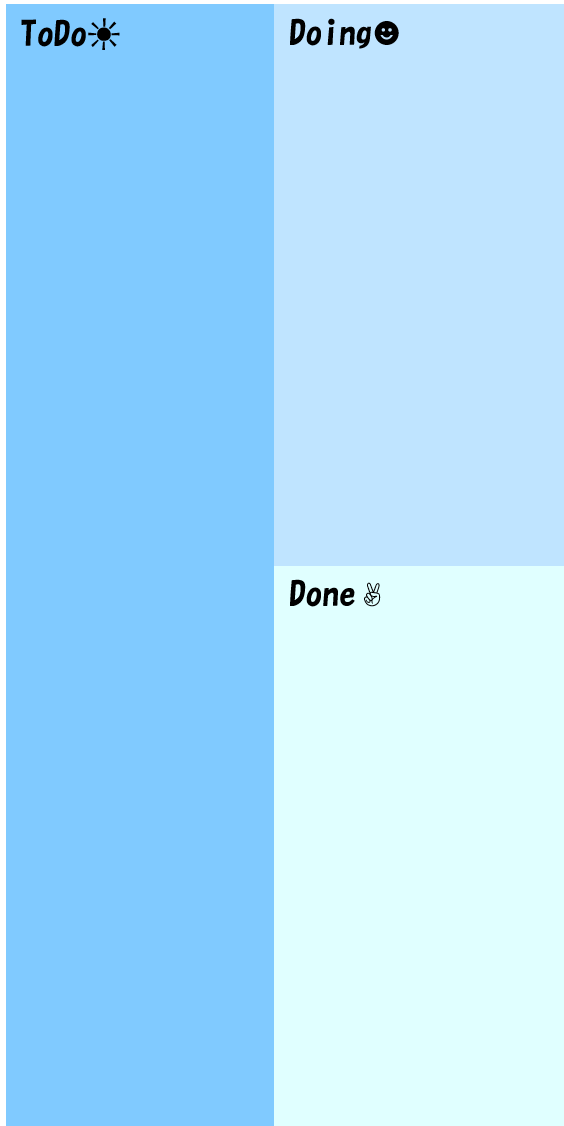
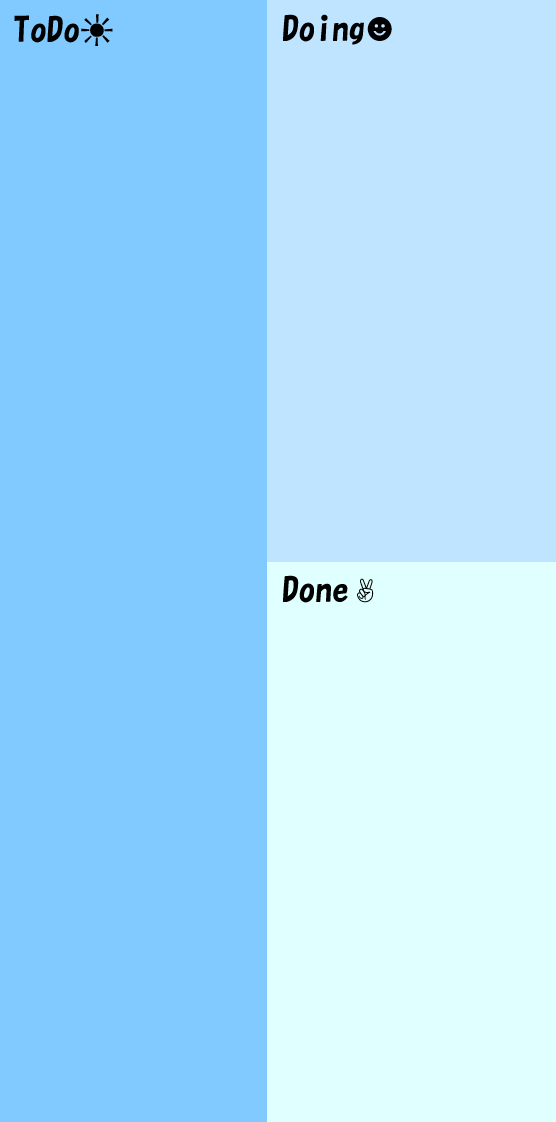
壁紙削除およびアイコン変更 #144

Changed region(s): [[0.0, 0.0, 1.0, 1.0]]

diff --git a/www/js/services.js b/www/js/services.js
@@ -7,24 +7,24 @@ angular.module('mainApp.services', ['mainApp.dbConnector'])
   // TODO:混同しないようにより適切な名前へと要変更
   var templates = [{
     id: 0,
-    name: 'タスクボード1',
-    lastText: '小島ボード1',
+    name: 'Template1',
+    lastText: 'ToDo',
     img: 'img/wallpaper/taskboard_port_blue.png'
   }, {
     id: 1,
-    name: 'タスクボード2',
-    lastText: '小島ボード2',
-    img: 'img/wallpaper/taskboard_port_green.png'
-  }, {
-    id: 2,
-    name: 'タスクボード3',
-    lastText: '小島ボード3',
+    name: 'Template2',
+    lastText: 'ToDo',
     img: 'img/wallpaper/taskboard_virt_blue.png'
   }, {
-    id: 3,
-    name: 'タスクボード4',
-    lastText: '小島ボード4',
+    id: 2,
+    name: 'Template3',
+    lastText: 'ToDo',
     img: 'img/wallpaper/taskboard_virt_orange.png'
+  }, {
+    id: 3,
+    name: 'Template4',
+    lastText: 'Weekly Calender',
+    img: 'img/wallpaper/template_calender_weekly.png'
   }];
 
   // 非同期処理のために使う、q.defer()のようにして呼び出す

diff --git a/www/templates/board.html b/www/templates/board.html
@@ -1,8 +1,8 @@
 <ion-view view-title="{{boardName}}">
   <toaster-container toaster-options="{'time-out': 3000, 'close-button': true, 'animation-class': 'toast-top-center', 'tap-to-dismiss': 'false'}"></toaster-container>
   <ion-nav-buttons side="right">
-    <button class="button button-icon icon ion-android-archive" ng-click="openModal()"></button>
-    <button menu-toggle="right" class="button button-icon icon ion-android-color-palette"></button>
+    <button class="button button-icon icon ion-pin" ng-click="openModal()"></button>
+    <button menu-toggle="right" class="button button-icon icon ion-wand"></button>
   </ion-nav-buttons>
 
   <ion-content scroll="false" has-header="false" style="background: url({{wallpaperParams.currentWallpaperPath}}) no-repeat 0% 0%; background-size: 100% 100%; background-position: center center;" ng-click="click($event)">
